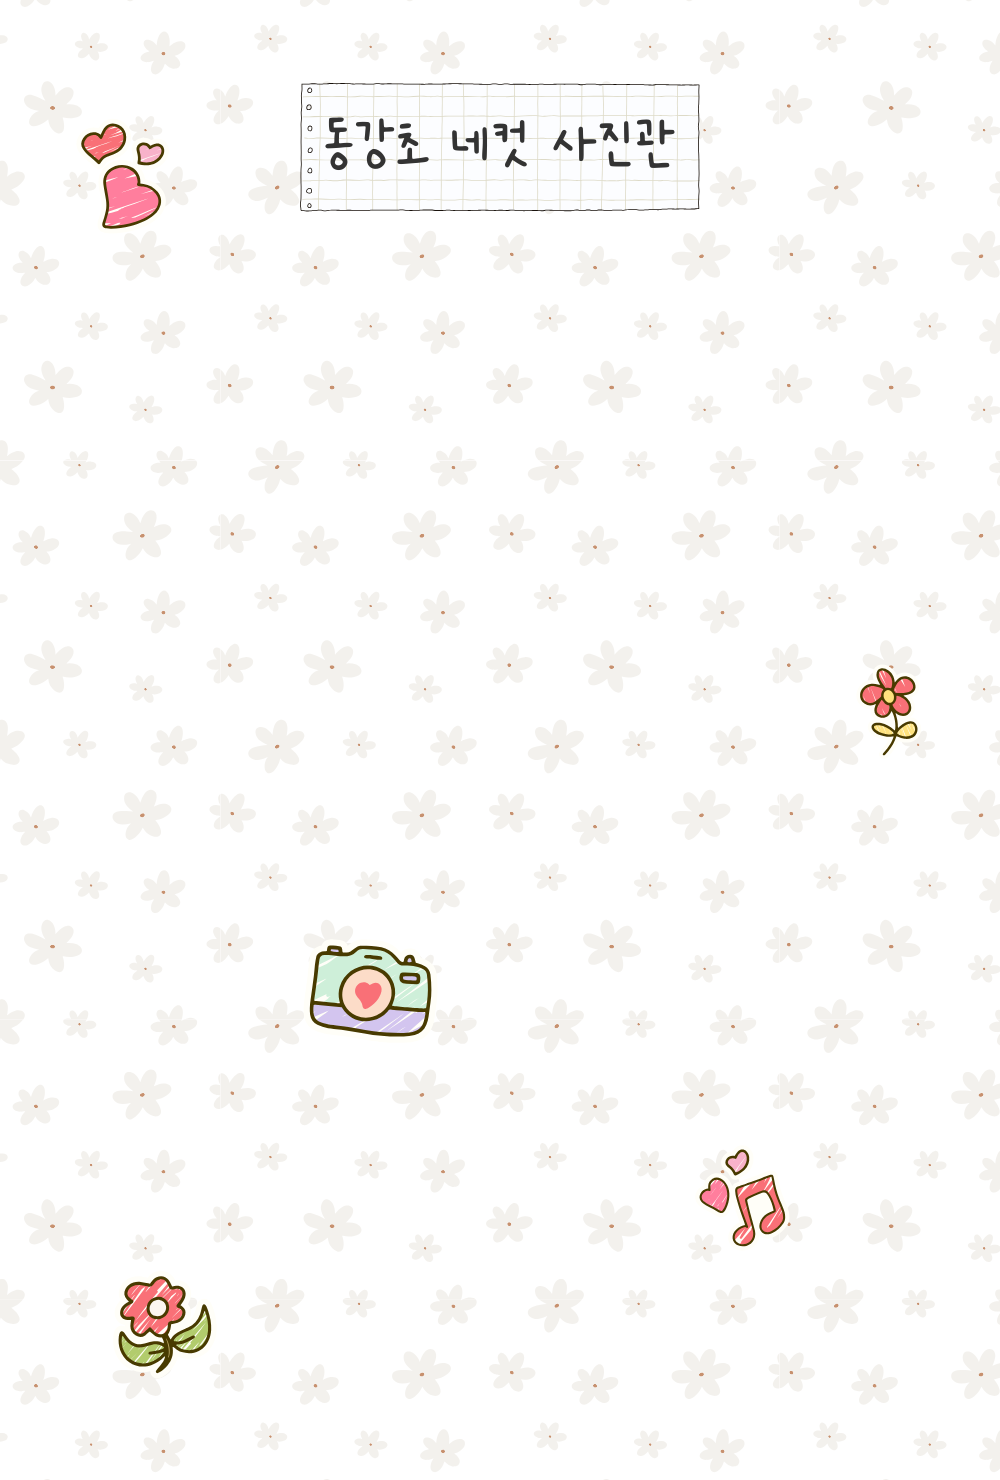
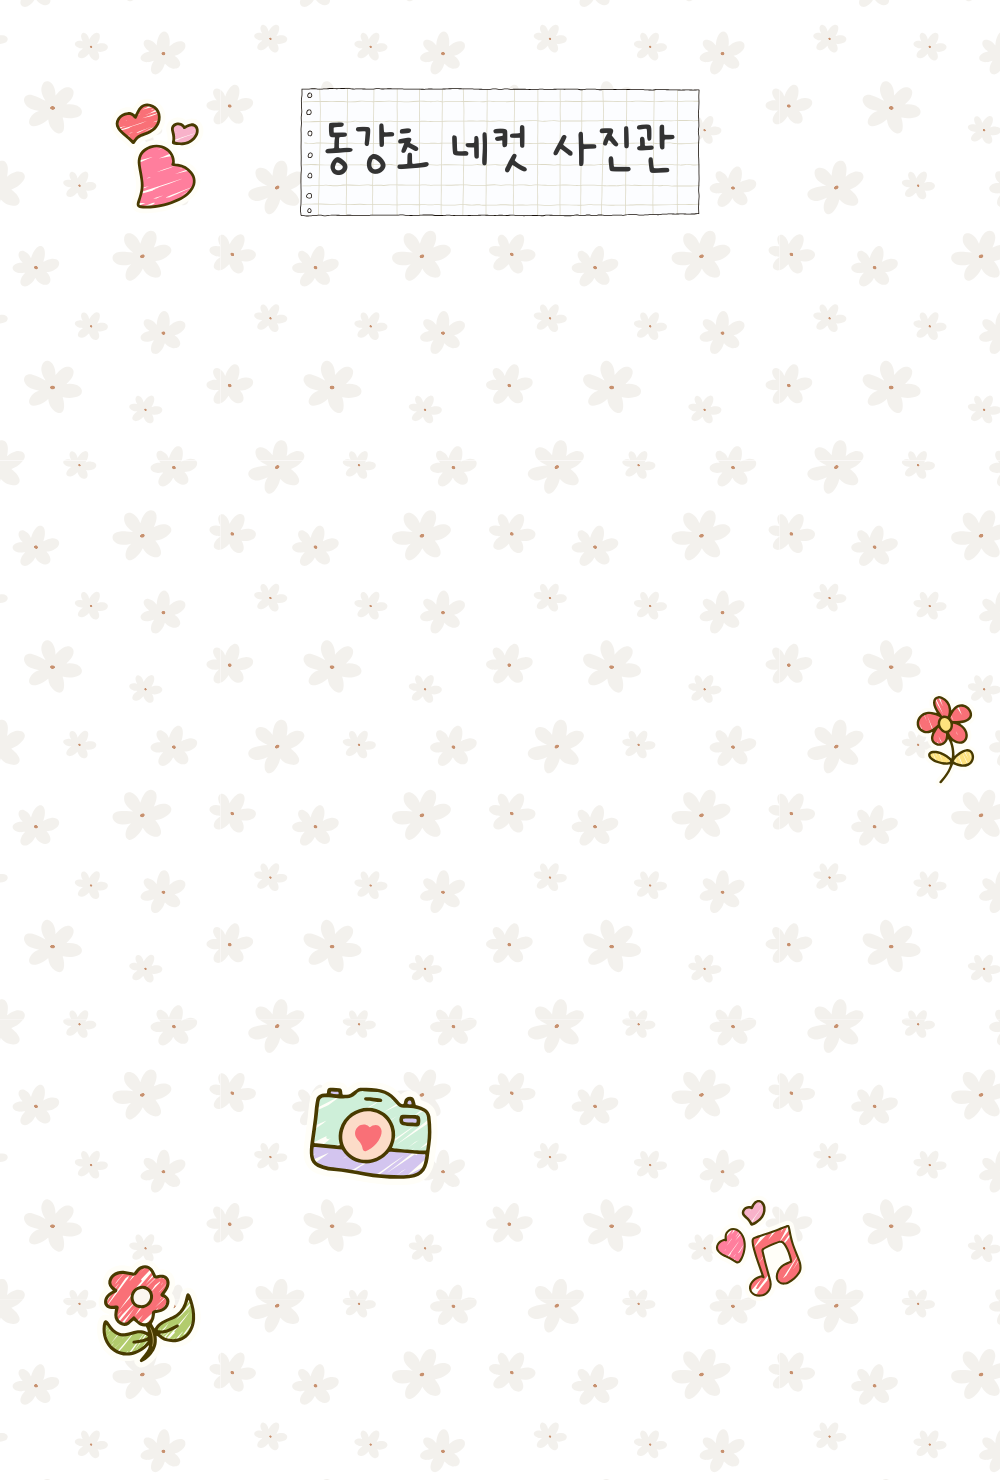
frame photo2

diff --git a/src/data/frames.ts b/src/data/frames.ts
@@ -27,7 +27,7 @@ export const frames: PhotoFrame[] = [
     enabled: true,
     category: 'basic',
     background: basicCream,
-    title: '우리 학교 4컷 사진관',
+    title: '',
     footerText: '',
   },
   {
@@ -36,7 +36,7 @@ export const frames: PhotoFrame[] = [
     enabled: true,
     category: 'basic',
     background: pastel,
-    title: '우리 학교 4컷 사진관',
+    title: '',
     footerText: '',
   },
   {
@@ -45,8 +45,8 @@ export const frames: PhotoFrame[] = [
     enabled: true,
     category: 'school',
     background: ourSchool,
-    title: '우리 학교 4컷 사진관',
-    subtitle: '우리 학교',
+    title: '',
+    subtitle: '',
     footerText: '',
   },
   {
@@ -55,8 +55,8 @@ export const frames: PhotoFrame[] = [
     enabled: true,
     category: 'nature',
     background: nature,
-    title: '우리 학교 4컷 사진관',
-    subtitle: '자연',
+    title: '',
+    subtitle: '',
     footerText: '',
   },
   {
@@ -65,7 +65,7 @@ export const frames: PhotoFrame[] = [
     enabled: true,
     category: 'basic',
     background: simple,
-    title: '우리 학교 4컷 사진관',
+    title: '',
     footerText: '',
   },
 
